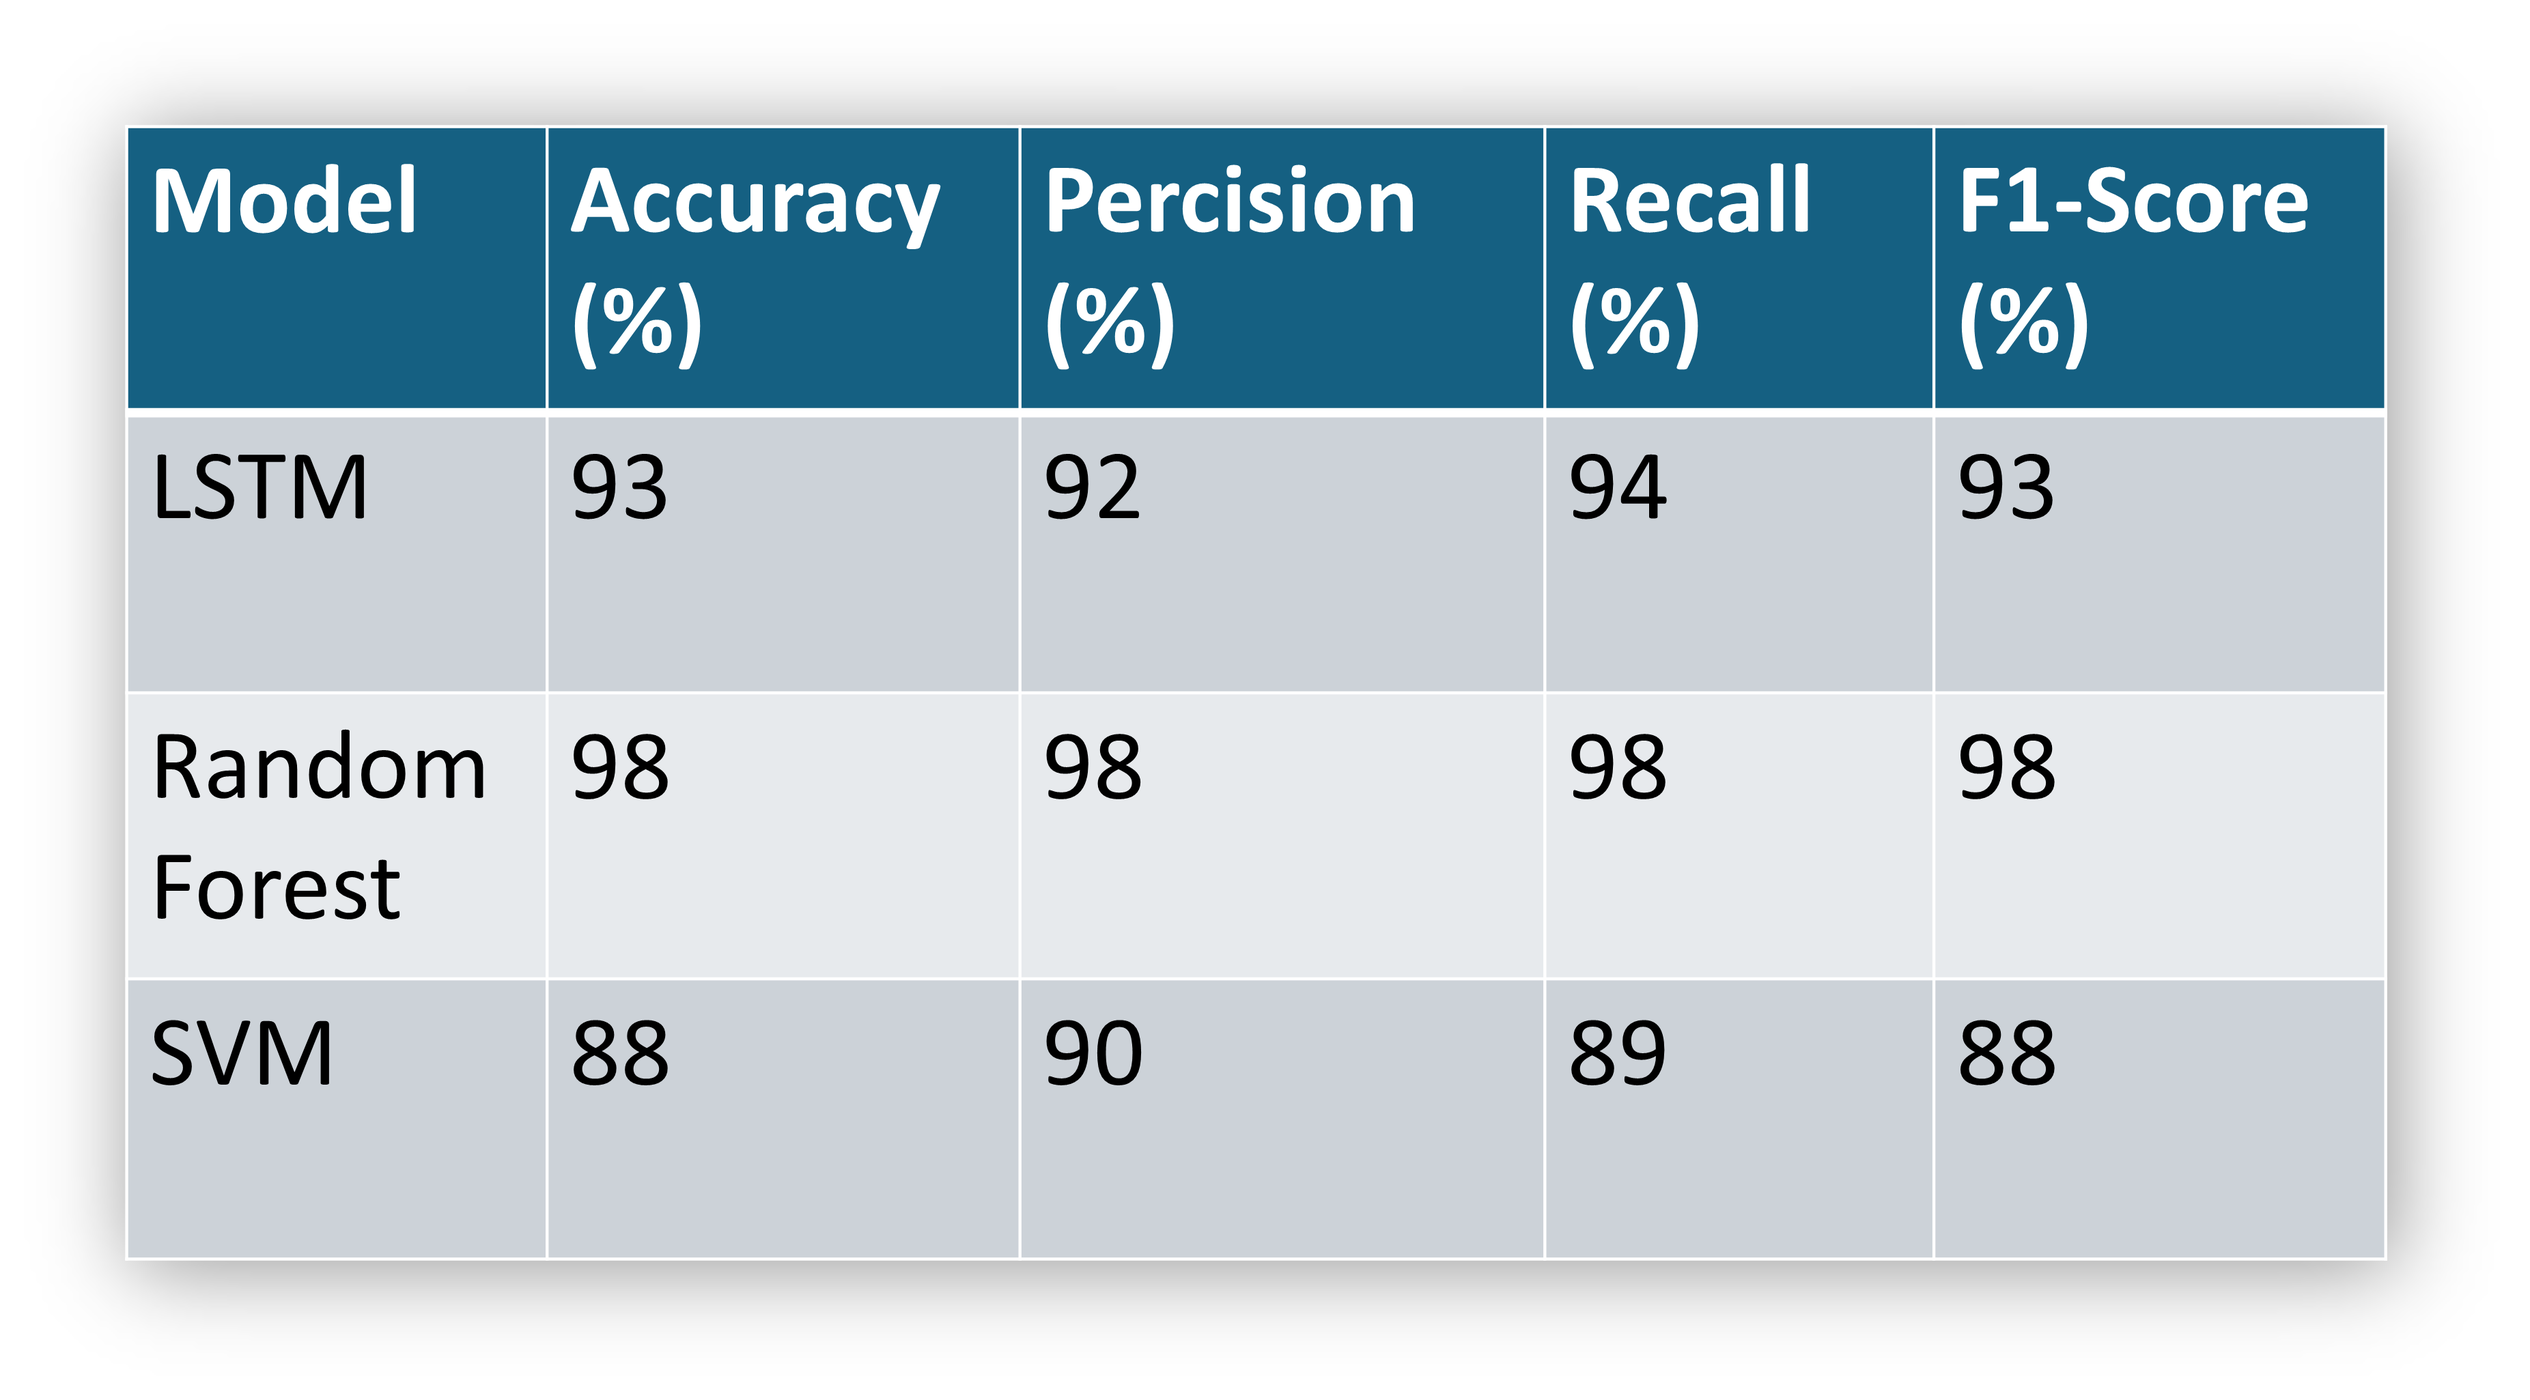
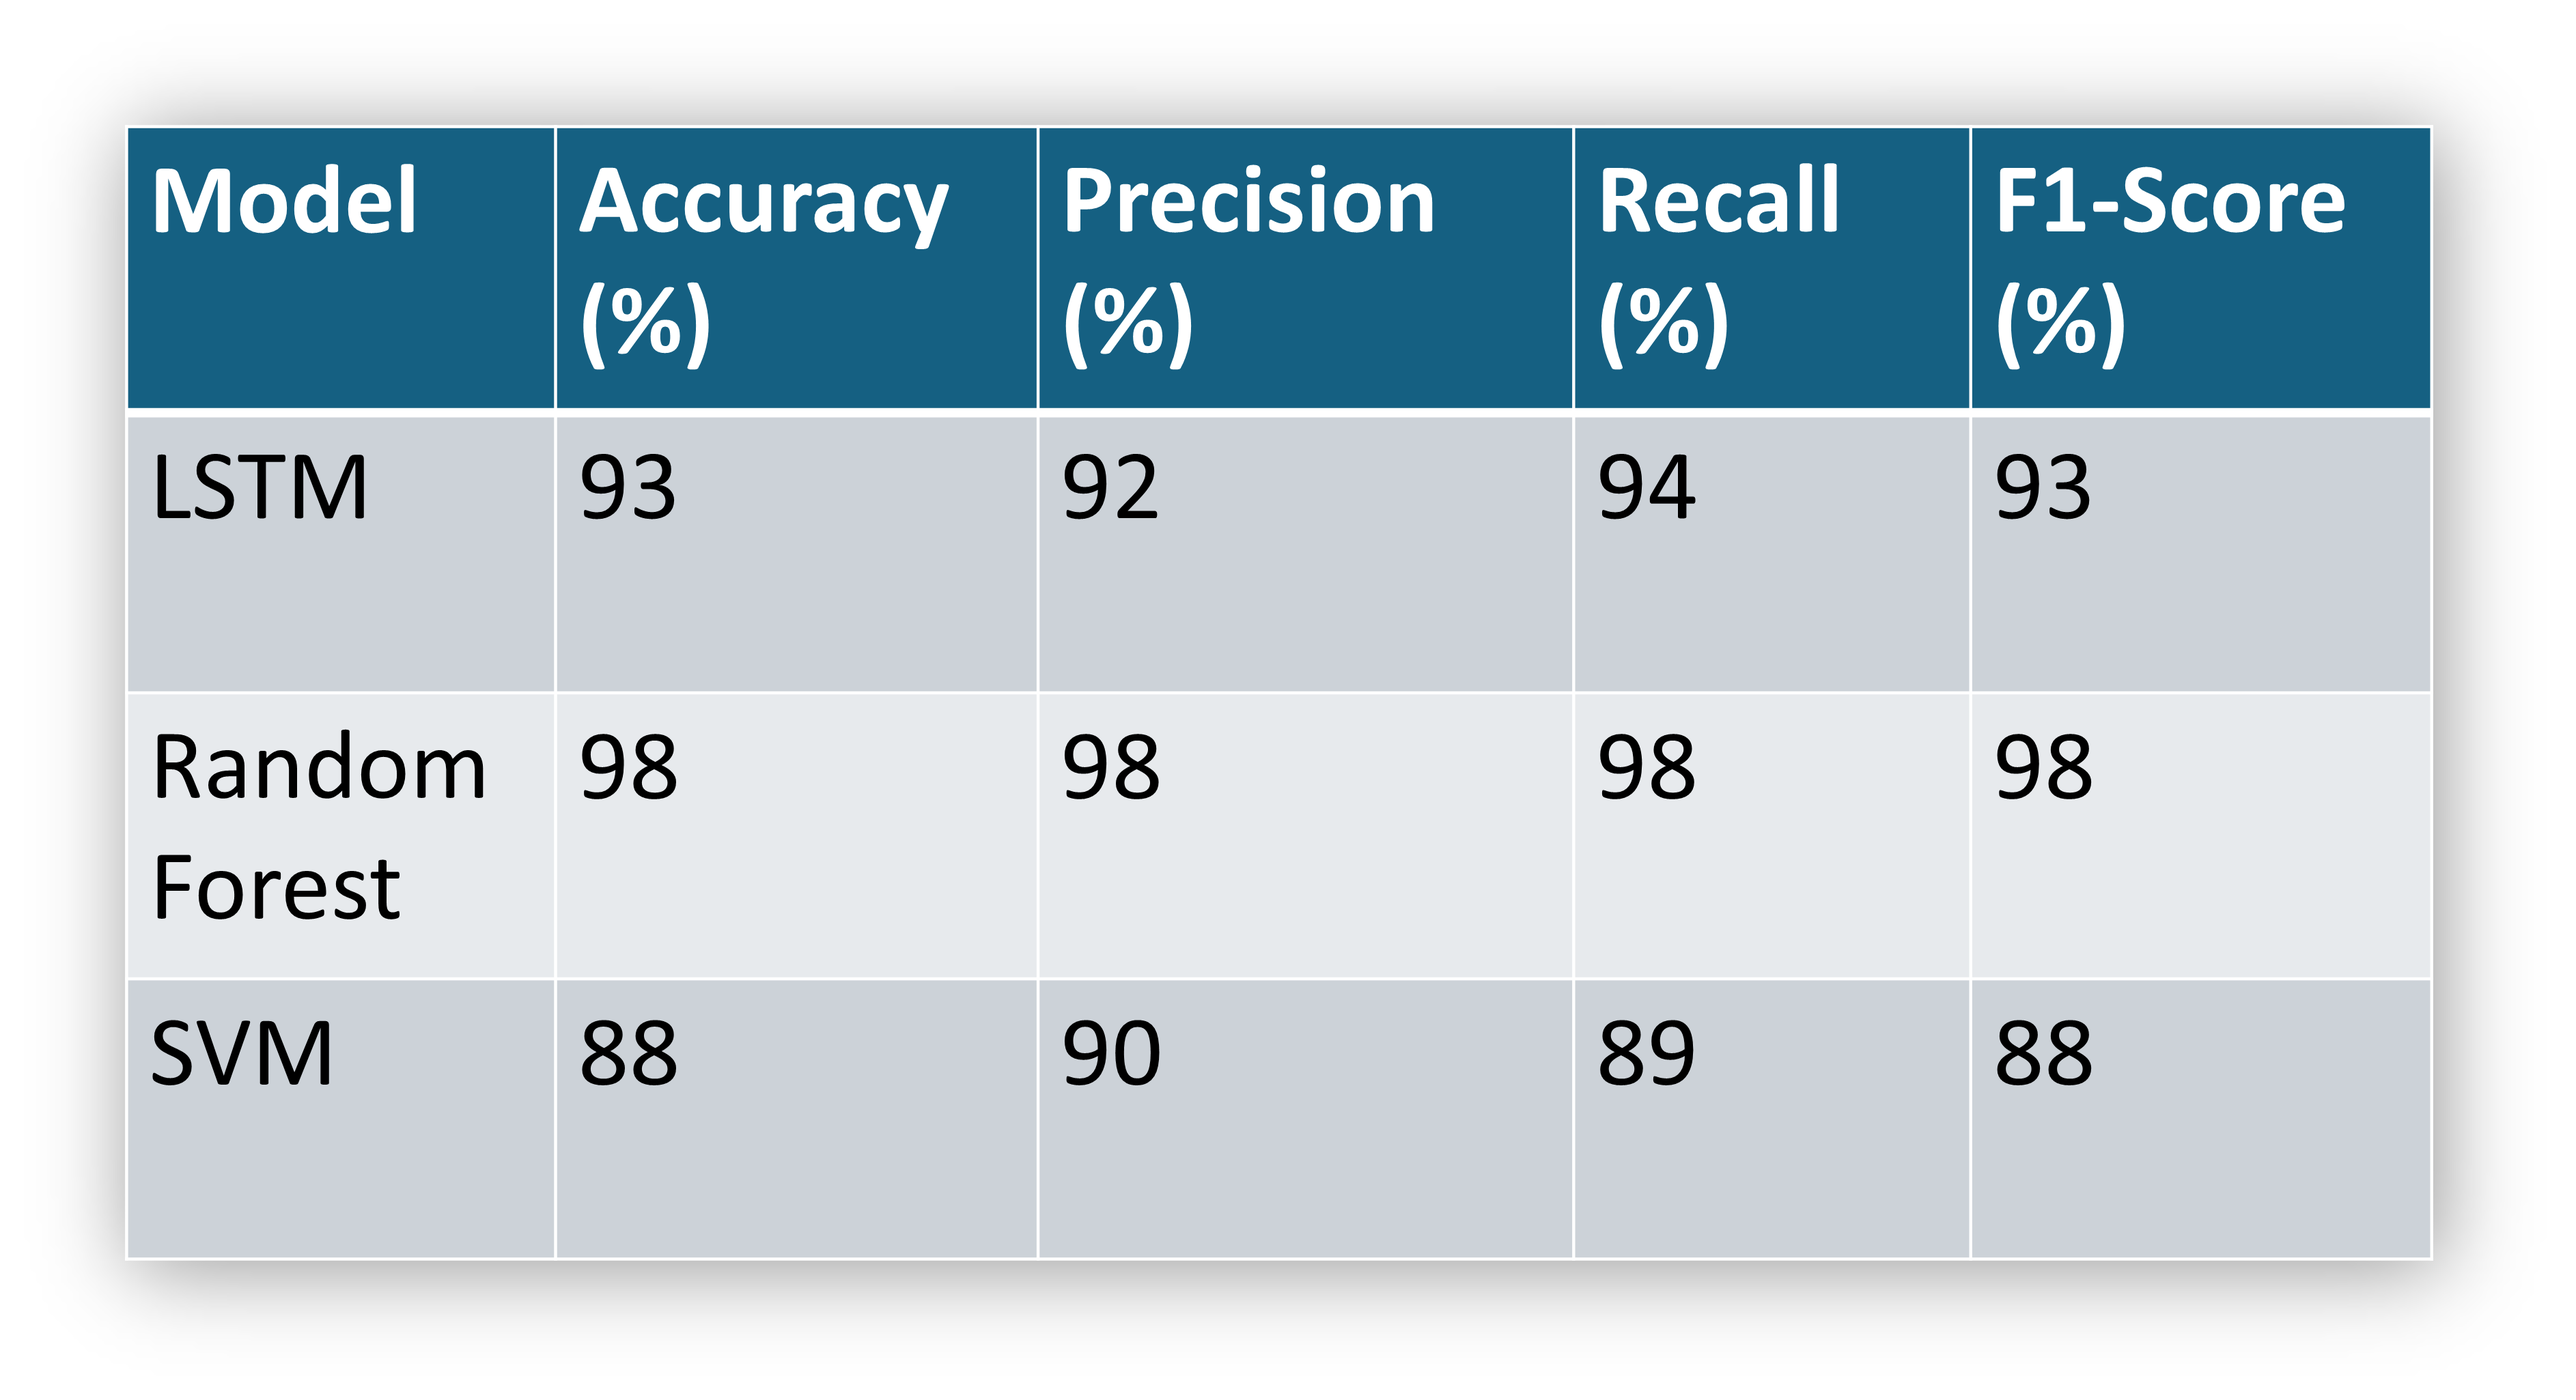
Updated table 1, and added info circle to figure 2.

diff --git a/website/templates/results.html b/website/templates/results.html
@@ -17,12 +17,22 @@
 
         <img src="static/images/APM_comp_session_8.png" alt="Figure 1: Actions per minute (APM) between the control player and participant for session 8.">
         <p class="image-caption">Figure 1: Actions per minute (APM) between the control player and participant for session 8.</p>
+        
         <img src="static/images/mean_APM_group.png" alt="Figure 2: Mean actions per minute (APM) by group.">
-        <p class="image-caption">Figure 2: Mean actions per minute (APM) by group.</p>
+        <p class="image-caption">
+            Figure 2: Mean actions per minute (APM) by group.
+            <span class="info-wrapper">
+                <span class="info-circle">i</span>
+                <span class="tooltip">In this image, the data for skilled players ends roughly 10 seconds before the control and unskilled player's data. This is because sessions with skilled players were shorter in length then unskilled players.</span>
+            </span>
+        </p>
+        
         <img src="static/images/mean_HR_group_event.png" alt="Figure 3: Mean heart rate (HR) during event by group.">
-        <p class="image-caption">Figure 3: Mean heart rate (HR) during event by group.</p>
+        <p class="image-caption">Figure 3: Mean heart rate (HR) during an event by group.</p>
+        
         <img src="static/images/ML_accuracy_table.png" alt="Table 1: Accuracy of the machine learning models used.">
         <p class="image-caption">Table 1: Accuracy of the machine learning models used.</p>
+        
         <img src="static/images/p_value_table.png" alt="Table 2: Statistical significance between skill level and biometric readings for different types of events.">
         <p class="image-caption">Table 2: Statistical significance between skill level and biometric readings for different types of events.</p>
     </div>

diff --git a/website/static/css/pages.css b/website/static/css/pages.css
@@ -100,3 +100,56 @@ body {
 .card-body {
     padding: 12px;
 }
+
+.image-caption {
+    text-align: center;
+    font-style: italic;
+    margin-top: 10px;
+    position: relative;
+}
+
+.info-wrapper {
+    position: relative;
+    display: inline-flex;
+    align-items: center;
+}
+
+.info-circle {
+    display: inline-block;
+    background-color: #007bff;
+    color: white;
+    border-radius: 50%;
+    width: 18px;
+    height: 18px;
+    text-align: center;
+    line-height: 18px;
+    font-size: 12px;
+    cursor: pointer;
+    vertical-align: middle;
+}
+
+.tooltip {
+    position: absolute;
+    bottom: 125%;
+    left: 50%;
+    transform: translateX(-50%);
+    background-color: #333;
+    color: #fff;
+    padding: 10px 14px;
+    border-radius: 6px;
+    width: max-content;        
+    max-width: 600px;          
+    white-space: normal;       
+    word-wrap: break-word;
+    opacity: 0;
+    visibility: hidden;
+    transition: opacity 0.2s ease-in-out;
+    z-index: 1000;
+    box-shadow: 0 2px 8px rgba(0, 0, 0, 0.3);
+    text-align: left;
+}
+
+.info-circle:hover + .tooltip {
+    opacity: 1;
+    visibility: visible;
+}
